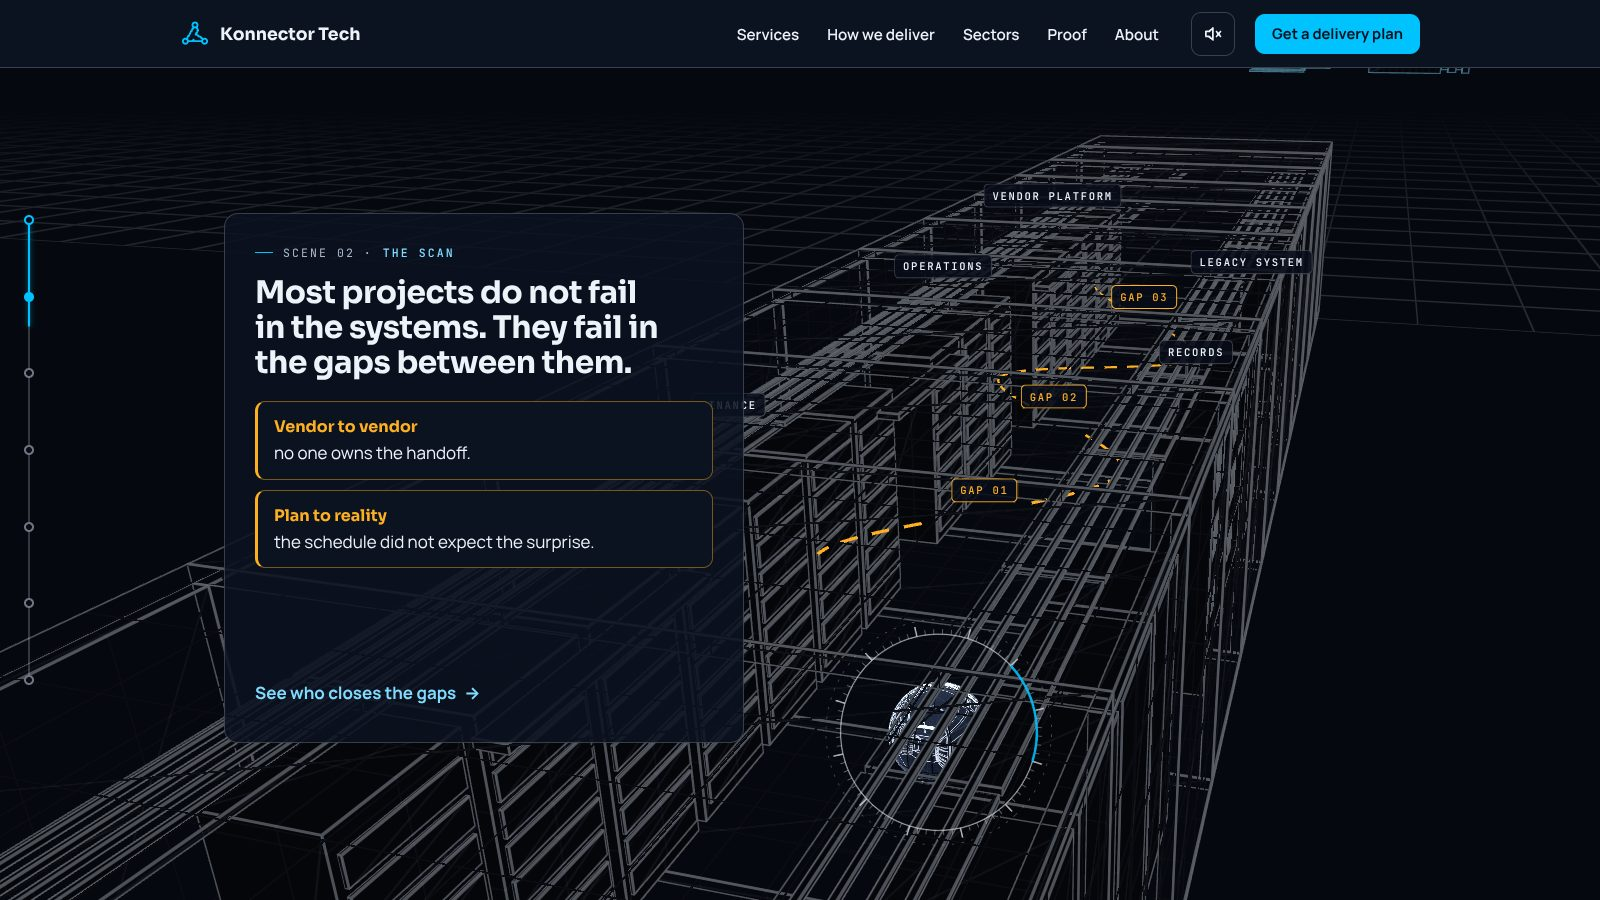
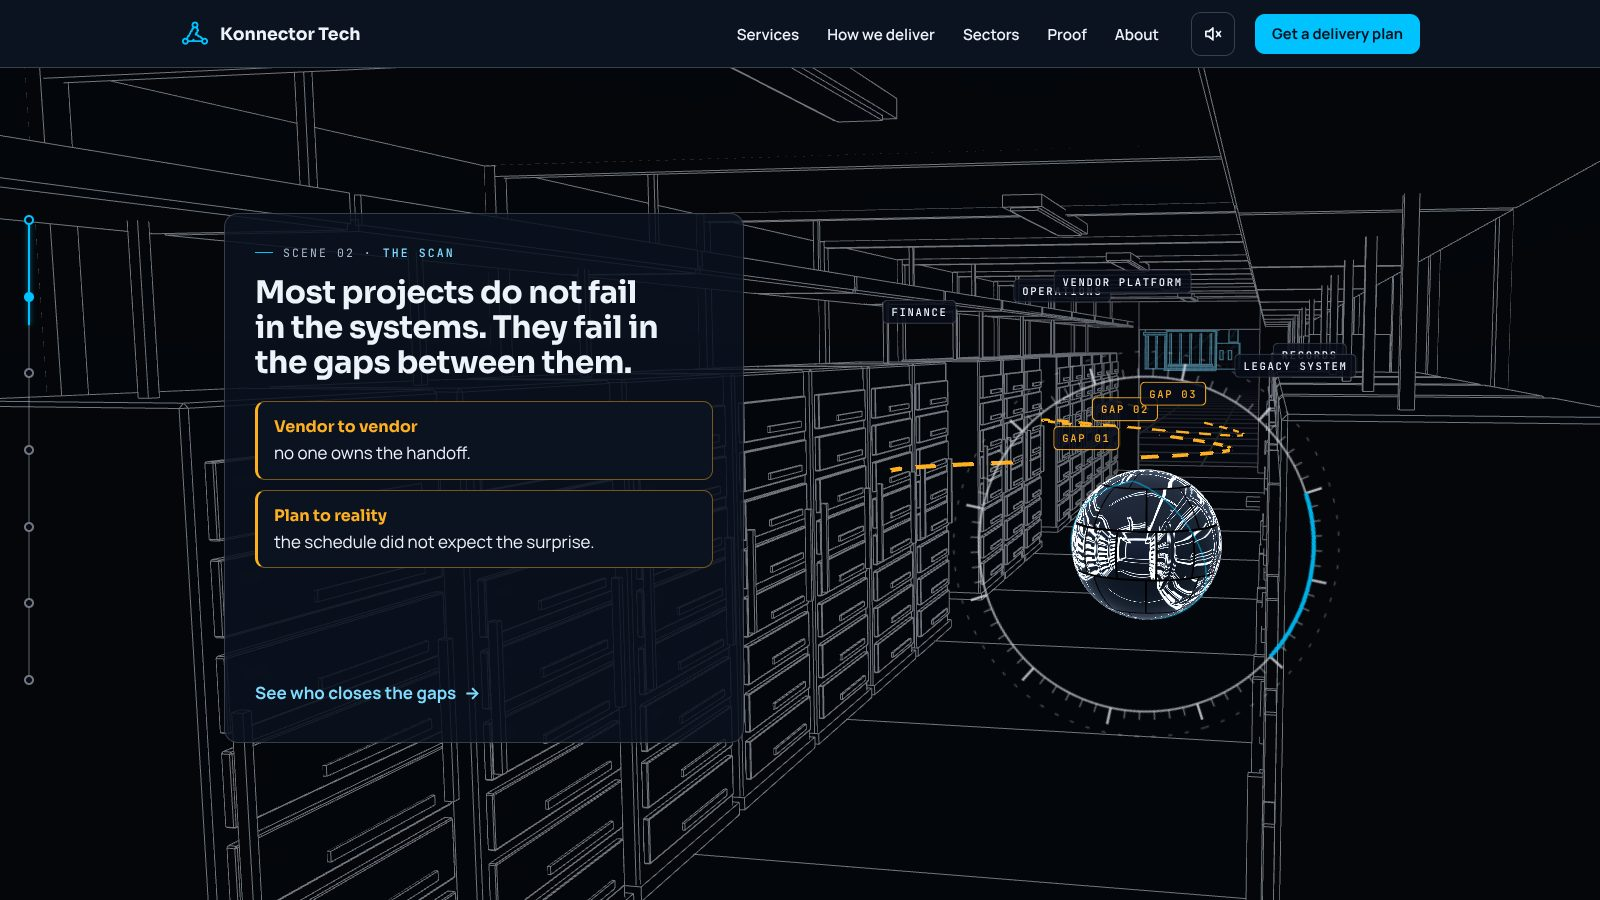
Bring scenes 2, 3, 4, 5, 6 and 7 closer to the script; record copy sign-off
- Scene 2: camera inside and off-axis so the system labels spread
- Scene 3: leaders join each docked service panel to the line
- Scene 4: block stands in the path before the bend; gate labels carry
  stage names; five gate ticks on the rail jump between gates
- Scene 5: 'Request a call' until a booking link exists
- Scene 6: delivery records slide in
- Scene 7: the mark lifts as the form rises
- Gate 1 document: copy signed off, frames re-shot and held

Claude-Session: https://claude.ai/code/session_01FyMLZ1RAVopRCtw5MBFVSF

diff --git a/rebuild/src/story/Story.tsx b/rebuild/src/story/Story.tsx
@@ -78,7 +78,7 @@ function Lines({ s }: { s: Director }) {
         });
       }
     }
-    const main = new THREE.TubeGeometry(curve, TUBULAR, 0.022, RADIAL);
+    const main = new THREE.TubeGeometry(curve, TUBULAR, 0.016, RADIAL);
     const branches = [-1, 1].map((side) => new THREE.TubeGeometry(new THREE.CatmullRomCurve3([FORK.clone(), new THREE.Vector3(side * 1.2, 1.5, -84), new THREE.Vector3(side * 4.2, 1.2, -92), new THREE.Vector3(side * 5.4, 0.6, -104)]), 120, 0.03, RADIAL));
     return { links, main, branches };
   }, [s]);
@@ -187,7 +187,7 @@ function Sphere({ s, env }: { s: Director; env: Env }) {
     b.chromeU.uRough.value = mix(0.02, 0.3, smooth((tau - 0.75) / 0.25)); // mirror chrome becomes brushed chrome
     b.chromeU.uEdge.value = done * 0.55;
     // Triangle seams: pulse once on arrival, rest faint, open again before the transformation
-    b.seamMat.opacity = tau > 0.25 ? 0 : Math.max(0.16, s.pulse, finale ? smooth((q - 0.1) / 0.1) : 0) * (1 - smooth((tau - 0.1) / 0.15));
+    b.seamMat.opacity = tau > 0.25 ? 0 : Math.max(0.5, s.pulse, finale ? smooth((q - 0.1) / 0.1) : 0) * (1 - smooth((tau - 0.1) / 0.15));
     b.nodes.forEach((n, i) => {
       const on = smooth((done - i * 0.2) / 0.5);
       n.sprite.opacity = on * 0.85;
@@ -218,7 +218,7 @@ function Sphere({ s, env }: { s: Director; env: Env }) {
 }
 
 const C_REST = new THREE.Vector3(0, 1.55, 2.2), L_REST = new THREE.Vector3(0.35, 1.4, -6);
-const C_SCAN = new THREE.Vector3(-0.25, 1.9, 1.5), L_SCAN = new THREE.Vector3(0.1, 1.35, -9); // still inside the room, a little higher and closer
+const C_SCAN = new THREE.Vector3(1.25, 2.25, 1.9), L_SCAN = new THREE.Vector3(-0.9, 1.25, -9.5); // still inside the room, a little higher and closer
 const C_DOORS = new THREE.Vector3(0, 2.3, -74.4), L_DOORS = new THREE.Vector3(0, 3.6, -112);
 
 /** Runs the frame: director, camera, mask inputs, reflections, the draw itself, then the HUD and content layer. */
@@ -298,7 +298,7 @@ function Loop({ s, env, scroll, stage, hud, onFail, onStepDown }: { s: Director;
       // Scene 3: follow the sphere from inside the room, behind and slightly above.
       // Scene 4: move to one side and look along the line like a track.
       const k4 = smooth((T - 2.9) / 0.3), side = k4 * smooth((-20 - sp.z) / 8);
-      v.pos.set(sp.x * mix(0.25, 0.6, k4) + 1.5 * side, Math.min(2.45, sp.y + mix(0.9, 1.0, k4)) + 0.6 * side, sp.z + mix(4.3, 5.4, k4));
+      v.pos.set(sp.x * mix(-0.35, 0.6, k4) + 1.5 * side, Math.min(2.6, sp.y + mix(1.05, 1.0, k4)) + 0.6 * side, sp.z + mix(4.6, 5.4, k4));
       v.look.set(sp.x * 0.5, sp.y - mix(0.2, 0.1, k4), sp.z - mix(3.5, 8, k4));
       const kIn = smooth((T - 2) / 0.2);
       if (kIn < 1) { v.pos.lerpVectors(C_SCAN, v.pos, kIn); v.look.lerpVectors(L_SCAN, v.look, kIn); }
@@ -311,7 +311,7 @@ function Loop({ s, env, scroll, stage, hud, onFail, onStepDown }: { s: Director;
     // Keep the subject clear of the text panel: right of centre on desktop, upper part of the screen on phones
     const centred = finale ? smooth(q / 0.18) : 0;
     const shiftX = s.capture || s.mobile ? 0 : mix(0.15, 0, centred);
-    const shiftY = s.capture ? 0 : s.mobile ? -0.2 : mix(0, 0.1, centred);
+    const shiftY = s.capture ? 0 : s.mobile ? -0.2 : mix(0, 0.1, centred) - 0.2 * (finale ? smooth((q - 0.72) / 0.25) : 0);
     camera.setViewOffset(W, H, -shiftX * W, -shiftY * H, W, H);
     camera.updateMatrixWorld();
 

diff --git a/rebuild/src/story/overlay.ts b/rebuild/src/story/overlay.ts
@@ -4,10 +4,10 @@ import * as THREE from 'three';
 import type { Director } from './director';
 import { ACCEPTED_AT } from './timeline';
 import { GATE_Z, SYSTEM_ANCHORS } from './world';
-import { clamp, mix, smooth } from './shaders';
+import { clamp, inOut, mix, smooth } from './shaders';
 
 // Label heights are staggered so the five system labels stay apart when seen down the length of the room.
-const TAG_Y = [2.25, 2.05, 2.55, 1.85, 2.85];
+const TAG_Y = [2.3, 2.0, 2.55, 1.75, 2.8];
 
 export function createOverlay(s: Director, stage: HTMLElement, hud: HTMLElement) {
   const el = (name: string) => hud.querySelector<HTMLElement>(`[data-hud="${name}"]`)!;
@@ -17,6 +17,10 @@ export function createOverlay(s: Director, stage: HTMLElement, hud: HTMLElement)
   const gapPoints = gapU.map((u) => s.path.curve.getPointAt(u));
   const gapEls = gapPoints.map((_, i) => el(`gap-${i}`));
   const gateEls = GATE_Z.map((_, i) => el(`gate-${i}`));
+  // Scene 3: each service panel docks onto the line. A leader runs from the panel to the point on the line it joined.
+  const dockEls = [0, 1, 2, 3].map((i) => el(`dock-${i}`));
+  const serviceLis = Array.from(document.querySelectorAll<HTMLElement>('[data-scene="3"] [data-at]'));
+  const dockPoints = serviceLis.map((li) => s.path.curve.getPointAt(clamp(s.path.uTrack * inOut((parseFloat(li.dataset.at || '0') - 0.1) / 0.8))));
   const place = (e: HTMLElement, x: number, y: number, opacity: number, extra = '') => {
     e.style.opacity = opacity.toFixed(3);
     if (opacity > 0.001) e.style.transform = `translate3d(${x.toFixed(1)}px,${y.toFixed(1)}px,0)${extra}`;
@@ -79,6 +83,16 @@ export function createOverlay(s: Director, stage: HTMLElement, hud: HTMLElement)
           const open = s.u < gapU[i] && T < 3 && !finale ? 1 : 0;
           place(gapEls[i], scr.x, scr.y, ok ? smooth((p2 - 0.34) / 0.08) * open : 0);
           gapEls[i].classList.toggle('is-hot', s.hotGap === i);
+        });
+        dockEls.forEach((d, i) => {
+          const li = serviceLis[i];
+          // Dock where the panel joined the line; once that point has left the view, hold on the line just behind the sphere
+          let on = li && li.classList.contains('is-on') && T >= 2 && T < 3.02 && !s.mobile && project(dockPoints[i]);
+          if (li && li.classList.contains('is-on') && T >= 2 && T < 3.02 && !s.mobile && (!on || scr.y > s.H - 40 || scr.x > s.W - 40)) on = project(s.path.curve.getPointAt(clamp(s.u - 0.005 * (i + 1))));
+          if (!on) { d.style.opacity = '0'; return; }
+          const r = li.getBoundingClientRect();
+          const x0 = r.right, y0 = r.top + r.height / 2, dx = scr.x - x0, dy = scr.y - y0;
+          place(d, x0, y0, dx > 8 ? 0.85 : 0, ` rotate(${Math.atan2(dy, dx).toFixed(4)}rad) scaleX(${Math.hypot(dx, dy).toFixed(1)})`);
         });
         GATE_Z.forEach((z, i) => {
           tmp.set(0, 2.3, z);

diff --git a/rebuild/src/app/globals.css b/rebuild/src/app/globals.css
@@ -389,3 +389,25 @@ a.card:hover { border-color: var(--cyan-soft); }
   html[data-mode='story'] [data-scene='5'] .ctas { margin-top: 12px; gap: 8px; }
   html[data-mode='story'] [data-scene='5'] .ctas .btn-primary { display: none; } /* the action bar already carries it */
 }
+
+/* Scene 3: leaders from each docked service panel to its point on the line */
+.hud-dock { width: 1px; height: 2px; margin-top: -1px; transform-origin: 0 50%; background: var(--cyan); box-shadow: 0 0 6px rgba(0, 194, 255, 0.8); opacity: 0; }
+/* Scene 4: five gate ticks, in a row beside the rail's fourth tick. Shown while scene 4 is current, or on hover or focus.
+   Each target is 24 px square. Story mode only: in brief mode the five stages are a plain list. */
+.rail li { position: relative; }
+.rail-gates { display: none; }
+html[data-mode='story'] .rail-gates { display: flex; position: absolute; left: 26px; top: -12px; gap: 2px; padding: 0 4px; background: var(--navy); border: 1px solid var(--wire-line); border-radius: 12px; opacity: 0; pointer-events: none; transition: opacity 0.3s; }
+html[data-mode='story'] .rail li:hover .rail-gates, html[data-mode='story'] .rail li:focus-within .rail-gates, html[data-mode='story'] .rail a.is-current + .rail-gates { opacity: 1; pointer-events: auto; }
+html[data-mode='story'] .rail a.is-current + .rail-gates ~ *, html[data-mode='story'] .rail li:has(.rail-gates):hover a span { opacity: 0; }
+.rail-gates button { position: relative; width: 24px; height: 24px; padding: 0; border: 0; background: none; cursor: pointer; }
+.rail-gates button::before { content: ''; position: absolute; left: 8px; top: 8px; width: 8px; height: 8px; border-radius: 50%; border: 2px solid var(--wire-strong); }
+.rail-gates button:hover::before, .rail-gates button:focus-visible::before { border-color: var(--cyan); background: var(--cyan); }
+.rail-gates button span { position: absolute; left: 0; top: 30px; white-space: nowrap; font: 500 0.64rem var(--font-mono); letter-spacing: 0.14em; text-transform: uppercase; color: var(--text); background: var(--navy); border: 1px solid var(--wire-line); padding: 4px 8px; border-radius: 6px; opacity: 0; pointer-events: none; }
+.rail-gates button:hover span, .rail-gates button:focus-visible span { opacity: 1; }
+/* Scene 6: delivery records slide in as they enter view */
+@media (prefers-reduced-motion: no-preference) {
+  @supports (animation-timeline: view()) {
+    .scene--proof .record { animation: record-in linear both; animation-timeline: view(); animation-range: entry 0% entry 70%; }
+    @keyframes record-in { from { opacity: 0; transform: translateY(36px); } to { opacity: 1; transform: none; } }
+  }
+}

diff --git a/rebuild/src/components/StoryShell.tsx b/rebuild/src/components/StoryShell.tsx
@@ -1,7 +1,8 @@
 'use client';
 import { useEffect, useRef, useState } from 'react';
 import dynamic from 'next/dynamic';
-import { scenes, site, systems } from '@/lib/site';
+import { scenes, site, stages, systems } from '@/lib/site';
+import { GATE_AT } from '@/story/timeline';
 import { createScrollTimeline, SCENE_COUNT } from '@/story/scroll';
 import { getMode, setMode, track } from '@/lib/track';
 import { ScannerRing } from './Mark';
@@ -86,6 +87,15 @@ export function StoryShell() {
     };
   }, []);
 
+  // In story mode a gate tick scrolls to the moment that gate locks; in brief mode it goes to the stage list.
+  const jumpToGate = (i: number) => {
+    const el = document.querySelector<HTMLElement>('[data-scene="4"]');
+    if (!el) return;
+    const top = el.getBoundingClientRect().top + window.scrollY;
+    const story = document.documentElement.dataset.mode === 'story';
+    window.scrollTo({ top: story ? top + el.offsetHeight * (GATE_AT[i] + 0.02) - window.innerHeight / 2 : top, behavior: 'smooth' });
+  };
+
   return (
     <>
       <div className="stage" ref={stage} aria-hidden="true">
@@ -105,7 +115,8 @@ export function StoryShell() {
         </div>
         {systems.map((s, i) => <span key={s} className="hud-tag" data-hud={`sys-${i}`}>{s}</span>)}
         {[1, 2, 3].map((n) => <span key={n} className="hud-tag is-gap" data-hud={`gap-${n - 1}`}>Gap 0{n}</span>)}
-        {[1, 2, 3, 4, 5].map((n) => <span key={n} className="hud-tag" data-hud={`gate-${n - 1}`}>Stage 0{n}</span>)}
+        {stages.map((st) => <span key={st.n} className="hud-tag" data-hud={`gate-${st.n - 1}`}>{`0${st.n} · ${st.name}`}</span>)}
+        {[0, 1, 2, 3].map((i) => <div key={i} className="hud-dock" data-hud={`dock-${i}`} />)}
       </div>
       <nav className="rail" aria-label="Story progress" ref={rail}>
         <div className="rail-track" />
@@ -114,6 +125,14 @@ export function StoryShell() {
           {scenes.map((s) => (
             <li key={s.id}>
               <a href={`#${s.id}`} aria-label={`Scene ${s.n}: ${s.name}`}><span>{`0${s.n} · ${s.name}`}</span></a>
+              {s.n === 4 ? (
+                // Jump between the five gates of scene 4
+                <span className="rail-gates">
+                  {stages.map((st, i) => (
+                    <button key={st.n} type="button" aria-label={`Stage ${st.n}: ${st.name}`} onClick={() => jumpToGate(i)}><span>{`Stage 0${st.n} · ${st.name}`}</span></button>
+                  ))}
+                </span>
+              ) : null}
             </li>
           ))}
         </ol>

diff --git a/rebuild/src/app/page.tsx b/rebuild/src/app/page.tsx
@@ -1,6 +1,6 @@
 import type { Metadata } from 'next';
 import Link from 'next/link';
-import { callHref, gaps, heroHeadline, promises, sectors, site, stages, statementHref, statementLabel } from '@/lib/site';
+import { callHref, gaps, heroHeadline, promises, sectors, site, stages, statementHref, statementLabel, callLabel } from '@/lib/site';
 import { credentials, getProof, getServices } from '@/lib/content';
 import { ACCEPTED_AT, GAP_AT, GATE_AT, SERVICE_AT } from '@/story/timeline';
 import { StoryShell } from '@/components/StoryShell';
@@ -144,7 +144,7 @@ export default function Home() {
               <div className="ctas">
                 <a className="btn btn-primary" href="#contact" data-cta="plan" data-pos="scene-5">{site.cta.main}</a>
                 <a className="btn btn-ghost" href={statementHref} data-for="public" data-cta="statement" data-pos="scene-5">{statementLabel}</a>
-                <a className="btn btn-ghost" href={callHref} data-for="private" data-cta="call" data-pos="scene-5">{site.cta.call}</a>
+                <a className="btn btn-ghost" href={callHref} data-for="private" data-cta="call" data-pos="scene-5">{callLabel}</a>
               </div>
               <p className="muted" style={{ margin: '14px 0 0', fontSize: '0.92rem' }}>
                 <Link href={sectors.public.href} data-for="public" style={{ display: 'block', padding: '4px 0' }}>More for public sector buyers</Link>
@@ -201,7 +201,7 @@ export default function Home() {
             <EnquiryForm pos="home" />
           </div>
           <div className="other-asks">
-            <a className="btn btn-ghost" href={callHref} data-cta="call" data-pos="scene-7">{site.cta.call}</a>
+            <a className="btn btn-ghost" href={callHref} data-cta="call" data-pos="scene-7">{callLabel}</a>
             <a className="btn btn-ghost" href={`mailto:${site.email}`} data-cta="email" data-pos="scene-7">Email {site.email}</a>
           </div>
         </div>

diff --git a/rebuild/tests/e2e/site.spec.ts b/rebuild/tests/e2e/site.spec.ts
@@ -31,7 +31,7 @@ test.describe('enquiry form', () => {
     await expect(sent).toContainText('ada@example.org');
     await expect(sent).toContainText('one business day');
     await expect(sent.getByRole('link', { name: /capability statement/ })).toBeVisible();
-    await expect(sent.getByRole('link', { name: 'Book a 30-minute call' })).toBeVisible();
+    await expect(sent.getByRole('link', { name: 'Request a call' })).toBeVisible();
     const stored = await (await request.get('/__enquiries')).json();
     expect(stored.some(([k, v]: [string, string]) => k.startsWith('enquiry:') && v.includes('Example County') && v.includes('Public sector'))).toBe(true);
     expect(await events(page)).toEqual(expect.arrayContaining(['form_started', 'form_sent']));
@@ -74,10 +74,10 @@ test.describe('home page', () => {
     await page.goto('/?mode=brief');
     const scene5 = page.locator('[data-scene="5"]');
     await expect(scene5.getByRole('link', { name: /capability statement/ })).toBeVisible();
-    await expect(scene5.getByRole('link', { name: 'Book a 30-minute call' })).toBeVisible(); // no choice: both
+    await expect(scene5.getByRole('link', { name: 'Request a call' })).toBeVisible(); // no choice: both
     await page.getByRole('button', { name: /^Private sector/ }).click();
     await expect(scene5.getByRole('link', { name: /capability statement/ })).toBeHidden();
-    await expect(scene5.getByRole('link', { name: 'Book a 30-minute call' })).toBeVisible();
+    await expect(scene5.getByRole('link', { name: 'Request a call' })).toBeVisible();
     await expect(page.getByRole('radio', { name: 'Private sector' })).toBeChecked();
     await page.getByRole('link', { name: 'Get a delivery plan' }).first().click();
     expect(await events(page)).toEqual(expect.arrayContaining(['brief_mode_opened', 'scene_reached', 'sector_chosen', 'cta_click']));

diff --git a/rebuild/src/app/contact/page.tsx b/rebuild/src/app/contact/page.tsx
@@ -1,5 +1,5 @@
 import type { Metadata } from 'next';
-import { callHref, site, statementHref, statementLabel } from '@/lib/site';
+import { callHref, site, statementHref, statementLabel, callLabel } from '@/lib/site';
 import { PageHead } from '@/components/Page';
 import { EnquiryForm } from '@/components/EnquiryForm';
 
@@ -20,7 +20,7 @@ export default function Contact() {
             <EnquiryForm pos="contact" />
           </div>
           <aside className="aside" aria-label="Other ways to reach us">
-            <div className="card"><h3>Prefer to talk first?</h3><p className="muted">Thirty minutes, no preparation needed.</p><a className="btn btn-ghost" href={callHref} data-cta="call" data-pos="contact">{site.cta.call}</a></div>
+            <div className="card"><h3>Prefer to talk first?</h3><p className="muted">Thirty minutes, no preparation needed.</p><a className="btn btn-ghost" href={callHref} data-cta="call" data-pos="contact">{callLabel}</a></div>
             <div className="card"><h3>Shortlisting suppliers?</h3><p className="muted">Our capability statement covers core competencies and company data.</p><a className="btn btn-ghost" href={statementHref} data-cta="statement" data-pos="contact">{statementLabel}</a></div>
             <div className="card"><h3>Email</h3><p style={{ margin: 0 }}><a href={`mailto:${site.email}`}>{site.email}</a></p><p className="muted" style={{ margin: '8px 0 0' }}>{site.legalName} · {site.location}</p></div>
           </aside>

diff --git a/rebuild/src/app/private-sector/page.tsx b/rebuild/src/app/private-sector/page.tsx
@@ -1,7 +1,7 @@
 import type { Metadata } from 'next';
 import Link from 'next/link';
 import { getServices } from '@/lib/content';
-import { callHref, promises, sectors, site } from '@/lib/site';
+import { callHref, promises, sectors, site, callLabel } from '@/lib/site';
 import { CtaBand, PageHead } from '@/components/Page';
 
 export const metadata: Metadata = {
@@ -17,7 +17,7 @@ export default function PrivateSector() {
       <PageHead label="Private sector" title="Technology programs that have to land." lede={sectors.private.text}>
         <div className="ctas">
           <Link className="btn btn-primary" href="/contact/?sector=private" data-cta="plan" data-pos="private-head">{site.cta.main}</Link>
-          <a className="btn btn-ghost" href={callHref} data-cta="call" data-pos="private-head">{site.cta.call}</a>
+          <a className="btn btn-ghost" href={callHref} data-cta="call" data-pos="private-head">{callLabel}</a>
         </div>
       </PageHead>
       <section className="section" aria-labelledby="outcomes-title">

diff --git a/rebuild/src/components/EnquiryForm.tsx b/rebuild/src/components/EnquiryForm.tsx
@@ -1,7 +1,7 @@
 'use client';
 import { useEffect, useRef, useState } from 'react';
 import Link from 'next/link';
-import { callHref, site, statementHref, statementLabel } from '@/lib/site';
+import { callHref, site, statementHref, statementLabel, callLabel } from '@/lib/site';
 import { getSector, track } from '@/lib/track';
 
 const SECTORS = ['Public sector', 'Private sector', 'Not sure yet'] as const;
@@ -130,7 +130,7 @@ export function EnquiryForm({ pos }: { pos: string }) {
           <li>If we need more detail to shape your plan, we will ask in that reply.</li>
         </ol>
         <div className="ctas">
-          <a className="btn btn-ghost" href={callHref} data-cta="call" data-pos={`${pos}-confirmation`}>{site.cta.call}</a>
+          <a className="btn btn-ghost" href={callHref} data-cta="call" data-pos={`${pos}-confirmation`}>{callLabel}</a>
           <a className="btn btn-ghost" href={statementHref} data-cta="statement" data-pos={`${pos}-confirmation`}>{statementLabel}</a>
         </div>
       </div>

diff --git a/rebuild/src/components/Page.tsx b/rebuild/src/components/Page.tsx
@@ -1,5 +1,5 @@
 import Link from 'next/link';
-import { callHref, site, statementHref, statementLabel } from '@/lib/site';
+import { callHref, site, statementHref, statementLabel, callLabel } from '@/lib/site';
 import { ScannerRing } from './Mark';
 
 // Supporting pages use the blueprint style: a wireframe header, ring motifs and the cyan line.
@@ -38,7 +38,7 @@ export function CtaBand({ pos, sector }: { pos: string; sector?: 'public' | 'pri
             {sector === 'public' ? (
               <a className="btn btn-ghost" href={statementHref} data-cta="statement" data-pos={pos}>{statementLabel}</a>
             ) : (
-              <a className="btn btn-ghost" href={callHref} data-cta="call" data-pos={pos}>{site.cta.call}</a>
+              <a className="btn btn-ghost" href={callHref} data-cta="call" data-pos={pos}>{callLabel}</a>
             )}
           </div>
         </div>

diff --git a/rebuild/src/components/Footer.tsx b/rebuild/src/components/Footer.tsx
@@ -1,5 +1,5 @@
 import Link from 'next/link';
-import { callHref, site, statementHref, statementLabel } from '@/lib/site';
+import { callHref, site, statementHref, statementLabel, callLabel } from '@/lib/site';
 import { getServices } from '@/lib/content';
 import { ModeSwitch } from './ModeSwitch';
 
@@ -34,7 +34,7 @@ export function Footer() {
             <h2>Get in touch</h2>
             <ul>
               <li><Link href="/contact/">Contact</Link></li>
-              <li><a href={callHref} data-cta="call" data-pos="footer">{site.cta.call}</a></li>
+              <li><a href={callHref} data-cta="call" data-pos="footer">{callLabel}</a></li>
               <li><a href={statementHref} data-cta="statement" data-pos="footer">{statementLabel}</a></li>
               <li><a href={`mailto:${site.email}`}>{site.email}</a></li>
               <li><ModeSwitch pos="footer" /></li>

diff --git a/rebuild/src/story/director.ts b/rebuild/src/story/director.ts
@@ -121,7 +121,7 @@ export function createDirector(tier: Tier) {
         const on = (s.gateOn[i] = !finale && (T >= 4 || (T >= 3 && p4 >= GATE_AT[i])));
         s.gateLock[i] += ((on ? 1 : 0) - s.gateLock[i]) * (1 - Math.exp(-dt * 6));
       }
-      s.rise = finale || T < 3 ? 0 : T >= 4 ? 1 : inOut((p4 - (BLOCK_AT - 0.13)) / 0.1);
+      s.rise = finale || T < 3 ? 0 : T >= 4 ? 1 : inOut((p4 - (BLOCK_AT - 0.27)) / 0.1); // rises in the path while the sphere is still approaching
       s.branchP = !finale && T >= 4 ? smooth((p5 - 0.2) / 0.35) : 0;
       s.run = T >= 4 ? 1 : T < 3 ? 0 : p4;
       s.frames++;
